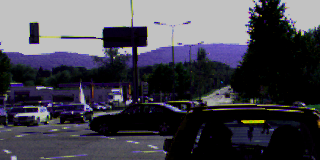
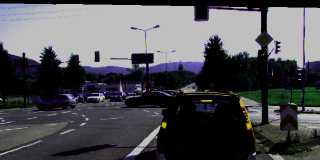
task2 revised

diff --git a/task2.py b/task2.py
@@ -37,7 +37,8 @@ given_transforms = torch.nn.Sequential(
     T.RandomAffine(degrees=(-5, 5), translate=(0.1, 0.1), scale=(0.9, 1.1)),
     T.RandomRotation(degrees=(-5, 5)),
     T.RandomHorizontalFlip(p=0.5),
-    T.CenterCrop(size=(160, 320)),
+    T.CenterCrop(size=(320, 640)),
+    T.Resize(size=(160, 320)),
     T.ColorJitter(brightness=0.5, contrast=0.5, saturation=0.4, hue=0.2)
 )
 
